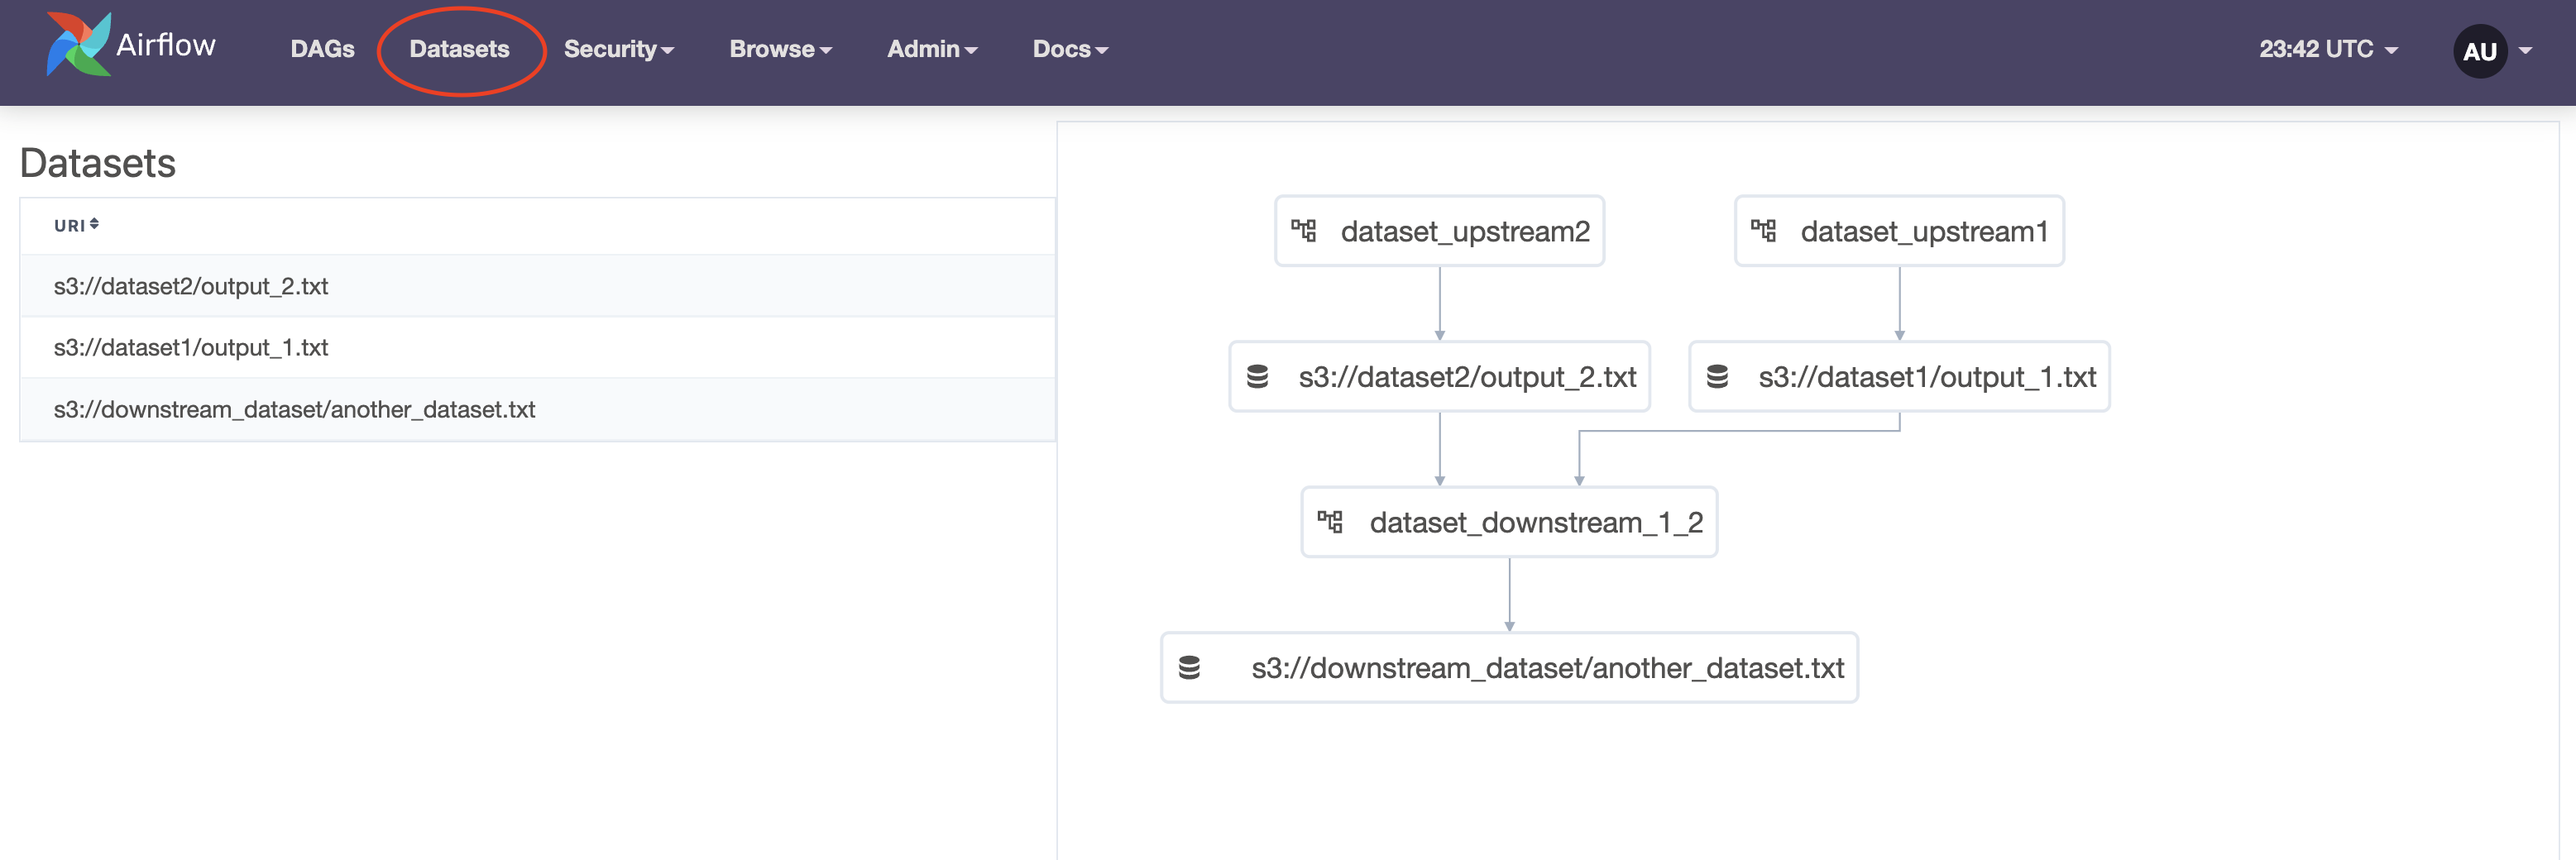
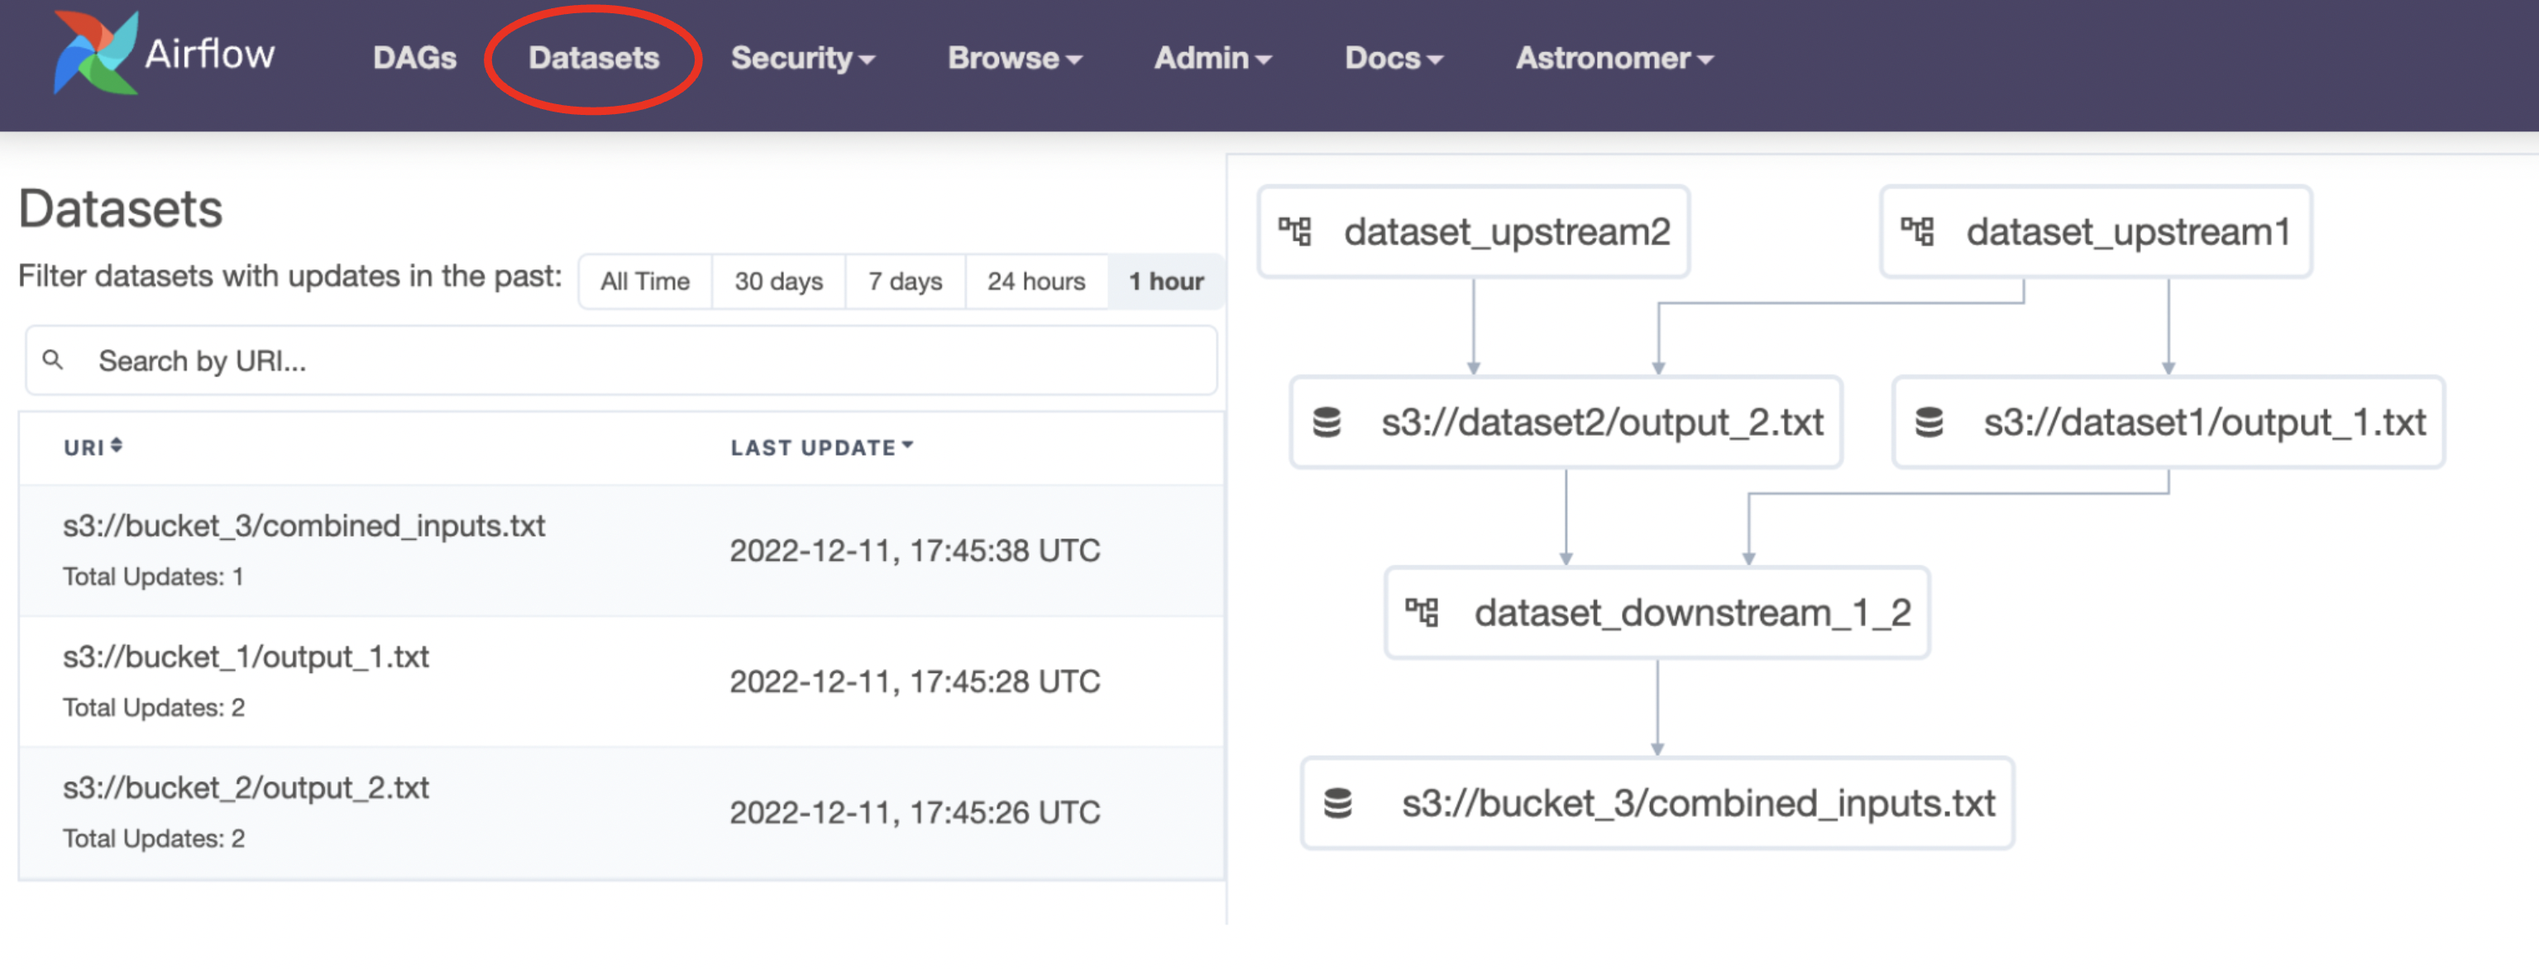
[2.5] Adding the sensor decorator and other small updates (#1615)
* add one done trigger rule

* sensor decorator

* new datasets screenshots

* update link to datasets screenshot in cross dag dependencies guide

* Apply suggestions from code review

diff --git a/learn/what-is-a-sensor.md b/learn/what-is-a-sensor.md
@@ -46,12 +46,12 @@ Different types of sensors have different implementation details.
 
 Many Airflow provider packages contain sensors that wait for various criteria in different source systems. The following are some of the most commonly used sensors:
 
+- [`@task.sensor` decorator](https://airflow.apache.org/docs/apache-airflow/stable/tutorial/taskflow.html#using-the-taskflow-api-with-sensor-operators): Allows you to turn any Python function that returns a [PokeReturnValue](https://airflow.apache.org/docs/apache-airflow/stable/_api/airflow/sensors/base/index.html#airflow.sensors.base.PokeReturnValue) into an instance of the [BaseSensorOperator](https://registry.astronomer.io/providers/apache-airflow/modules/basesensoroperator) class. This way of creating a sensor is useful when checking for complex logic or if you are connecting to a tool via an API that has no specific sensor available.
 - [`S3KeySensor`](https://registry.astronomer.io/providers/amazon/modules/s3keysensor): Waits for a key (file) to appear in an Amazon S3 bucket. This sensor is useful if you want your DAG to process files from Amazon S3 as they arrive.
 - [`DateTimeSensor`](https://registry.astronomer.io/providers/apache-airflow/modules/datetimesensor): Waits for a specified date and time. This sensor is useful if you want different tasks within the same DAG to run at different times.
 - [`ExternalTaskSensor`](https://registry.astronomer.io/providers/apache-airflow/modules/externaltasksensor): Waits for an Airflow task to be completed. This sensor is useful if you want to implement [cross-DAG dependencies](cross-dag-dependencies.md) in the same Airflow environment.
 - [`HttpSensor`](https://registry.astronomer.io/providers/http/modules/httpsensor): Waits for an API to be available. This sensor is useful if you want to ensure your API requests are successful.
 - [`SqlSensor`](https://registry.astronomer.io/providers/apache-airflow/modules/sqlsensor): Waits for data to be present in a SQL table. This sensor is useful if you want your DAG to process data as it arrives in your database.
-- [`PythonSensor`](https://registry.astronomer.io/providers/apache-airflow/modules/pythonsensor): Waits for a Python call to return `True`. This sensor is useful if you want to implement complex conditions in your DAG.
 
 To review the available Airflow sensors, go to the [Astronomer Registry](https://registry.astronomer.io/modules?types=sensors).
 
@@ -105,6 +105,64 @@ dag = partner()
 ```
 
 This DAG waits for data to be available in a Postgres database before running validation and storing tasks. The `SqlSensor` runs a SQL query and is marked successful when that query returns data. Specifically, when the result is not in the set (0, '0', '', None). The `SqlSensor` task in the example DAG (`waiting_for_partner`) runs the `CHECK_PARTNER.sql` script every 20 seconds (the `poke_interval`) until the data is returned. The `mode` is set to `reschedule`, meaning between each 20 second interval the task will not take a worker slot. The `timeout` is set to 5 minutes, and the task fails if the data doesn't arrive within that time. When the `SqlSensor` criteria is met, the DAG moves to the downstream tasks. You can find the full code for this example in the [webinar-sensors repo](https://github.com/marclamberti/webinar-sensors).
+
+## Sensor decorator
+
+Starting in Airflow 2.5, you can use the `@task.sensor` decorator from the TaskFlow API to use any Python function that returns a `PokeReturnValue` as an instance of the BaseSensorOperator. The following DAG shows how to use the sensor decorator:
+
+```python
+from airflow import DAG
+from airflow.decorators import task
+from pendulum import datetime
+import requests
+
+# importing the PokeReturnValue
+from airflow.sensors.base import PokeReturnValue
+
+with DAG(
+    dag_id="sensor_decorator",
+    start_date=datetime(2022, 12, 1),
+    schedule="@daily",
+    catchup=False
+):
+
+    # supply inputs to the BaseSensorOperator parameters in the decorator
+    @task.sensor(
+        poke_interval=30,
+        timeout=3600,
+        mode="poke"
+    )
+    def check_shibe_availability() -> PokeReturnValue:
+
+        r = requests.get("http://shibe.online/api/shibes?count=1&urls=true")
+        print(r.status_code)
+
+        # set the condition to True if the API response was 200
+        if r.status_code == 200:
+            condition_met=True
+            operator_return_value=r.json()
+        else:
+            condition_met=False
+            operator_return_value=None
+            print(f"Shibe URL returned the status code {r.status_code}")
+
+        # the function has to return a PokeReturnValue
+        # if is_done = True the sensor will exit successfully, if is_done=False, the sensor will either poke or be rescheduled
+        return PokeReturnValue(is_done=condition_met, xcom_value=operator_return_value)
+
+
+    # print the URL to the picture
+    @task
+    def print_shibe_picture_url(url):
+        print(url)
+
+
+    print_shibe_picture_url(check_shibe_availability())
+```
+
+Here, `@task.sensor` decorates the `check_shibe_availability()` function, which checks if a given API returns a 200 status code. If the API returns a 200 status code, the sensor task is marked as successful. If any other status code is returned, the sensor pokes again after the `poke_interval` has passed.
+
+The optional `xcom_value` parameter in `PokeReturnValue` defines what data will be pushed to [XCom](airflow-passing-data-between-tasks.md) once the `is_done=true`. You can use this data in any downstream tasks.
 
 ## Sensor best practices
 

diff --git a/learn/managing-dependencies.md b/learn/managing-dependencies.md
@@ -278,8 +278,9 @@ The following options are available:
 - all_failed: The task runs only when all upstream tasks are in a failed or upstream\_failed state.
 - all_done: The task runs once all upstream tasks are done with their execution.
 - all_skipped: The task runs only when all upstream tasks have been skipped. 
-- one_failed: The task runs as soon as at least one upstream task has failed. 
-- one_success: The task runs as soon as at least one upstream task has succeeded.
+- one_failed: The task runs when at least one upstream task has failed. 
+- one_success: The task runs when at least one upstream task has succeeded.
+- one_done: The task runs when at least one upstream task has either succeeded or failed.
 - none_failed: The task runs only when all upstream tasks have succeeded or been skipped.
 - none_failed_min_one_success: The task runs only when all upstream tasks have not failed or upstream_failed, and at least one upstream task has succeeded.
 - none_skipped: The task runs only when no upstream task is in a skipped state.

diff --git a/learn/airflow-decorators.md b/learn/airflow-decorators.md
@@ -320,5 +320,6 @@ There are a limited number of decorators available to use with Airflow, although
 - Short circuit decorator (`@task.short_circuit()`), which evaluates a condition and skips downstream tasks if the condition is False
 - Branch decorator (`@task.branch()`), which creates a branch in your DAG based on an evaluated condition
 - Kubernetes pod decorator (`@task.kubernetes()`), which runs a KubernetesPodOperator task
+- [Sensor decorator](what-is-a-sensor.md#sensor-decorator) (`@task.sensor()`), which turns a Python funtion into a sensor. This sensor was introduced in Airflow 2.5.
 
 As of Airflow 2.2, you can also [create your own custom task decorator](https://airflow.apache.org/docs/apache-airflow/stable/howto/create-custom-decorator.html).

diff --git a/learn/airflow-datasets.md b/learn/airflow-datasets.md
@@ -43,6 +43,7 @@ with DAG(
     dag_id='dataset_upstream1',
     start_date=pendulum.datetime(2021, 1, 1, tz="UTC"),
     schedule='@daily',
+    catchup=False
 ) as dag1:
 
     BashOperator(
@@ -98,7 +99,7 @@ On the **DAGs** view, you can see that your `dataset_downstream_1_2` DAG is sche
 
 ![DAGs View](/img/guides/dags_view_dataset_schedule.png)
 
-The new **Datasets** tab shows a list of all datasets in your Airflow environment and a graph showing how your DAGs and datasets are connected.
+The **Datasets** tab shows a list of all datasets in your Airflow environment and a graph showing how your DAGs and datasets are connected. You can filter the lists of Datasets by recent updates.
 
 ![Datasets View](/img/guides/datasets_view_overview.png)
 

diff --git a/learn/airflow-ui.md b/learn/airflow-ui.md
@@ -105,11 +105,11 @@ The following are the additional DAG views that are available, but not discussed
 
 The **Dataset** tab was introduced in Airflow 2.4 in support of the new [dataset driven scheduling](airflow-datasets.md) feature. The **Dataset** tab links to a page showing all datasets that have been produced in the Airflow environment, as well as all dependencies between datasets and DAGs in a graph.
 
-![Datasets](/img/guides/2_4_Datasets.png)
+![Datasets](/img/guides/2_5_Datasets.png)
 
 Click a dataset to open the history of all updates to the dataset that were recorded in the Airflow environment.
 
-![Dataset History](/img/guides/2_4_DatasetsDetails.png)
+![Dataset History](/img/guides/2_5_DatasetsDetails.png)
 
 ## Security tab
 

diff --git a/learn/cross-dag-dependencies.md b/learn/cross-dag-dependencies.md
@@ -365,7 +365,7 @@ When DAGs are scheduled depending on datasets, both the DAG containing the produ
 
 In Airflow 2.4 an additional **Datasets** tab was added, which shows all dependencies between datasets and DAGs.
 
-![DAG Dependencies View Datasets](/img/guides/2_4_Datasets.png)
+![DAG Dependencies View Datasets](/img/guides/2_5_Datasets.png)
 
 ## Cross-deployment dependencies
 
